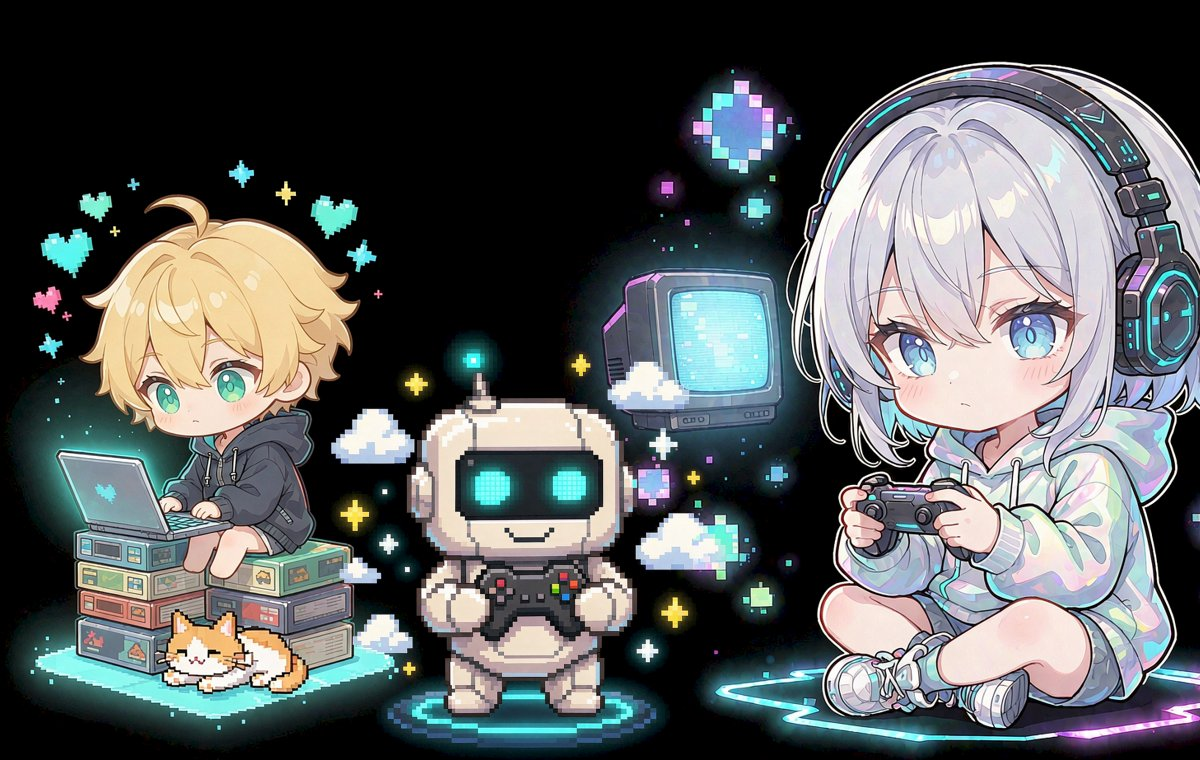
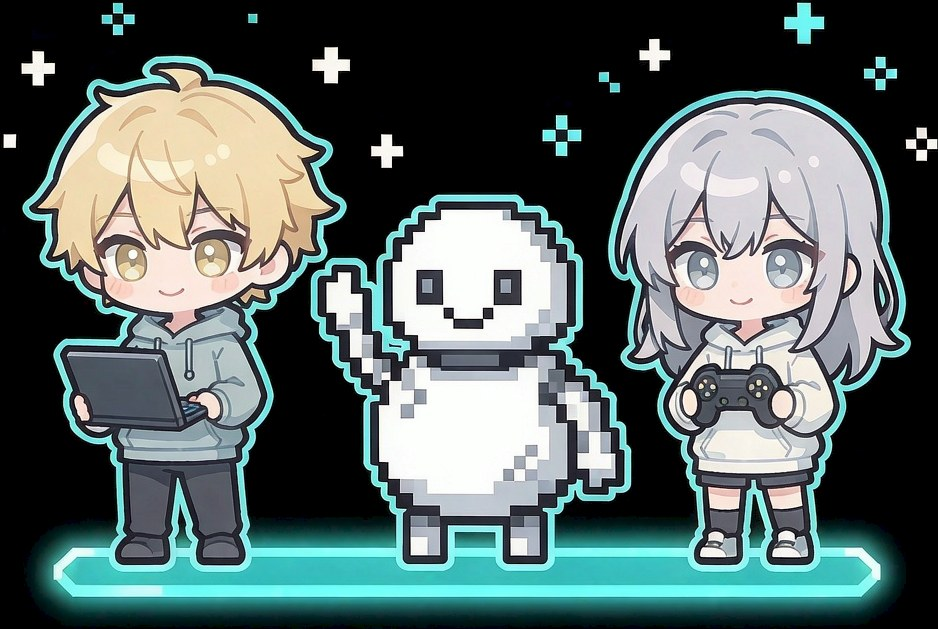
吉祥物重制：贴纸风三人同高并排，放大右下背景

diff --git a/public/index.html b/public/index.html
@@ -62,10 +62,10 @@
     border-radius: 4px; padding: 2px 8px;
   }
 
-  /* Q版吉祥物小队：固定右下角，黑底用 lighten 混合融入背景 */
+  /* Q版吉祥物三人组：贴纸风，放大立在右下角页面背景里（黑底 lighten 融合） */
   .mascots {
-    position: fixed; right: 0; bottom: 0; width: min(34vw, 460px);
-    mix-blend-mode: lighten; opacity: .95;
+    position: fixed; right: 8px; bottom: 0; width: min(48vw, 680px);
+    mix-blend-mode: lighten;
     pointer-events: none; z-index: 0;
   }
   main { max-width: 1200px; margin: 0 auto; padding: 20px 24px 60px; position: relative; z-index: 1; }
